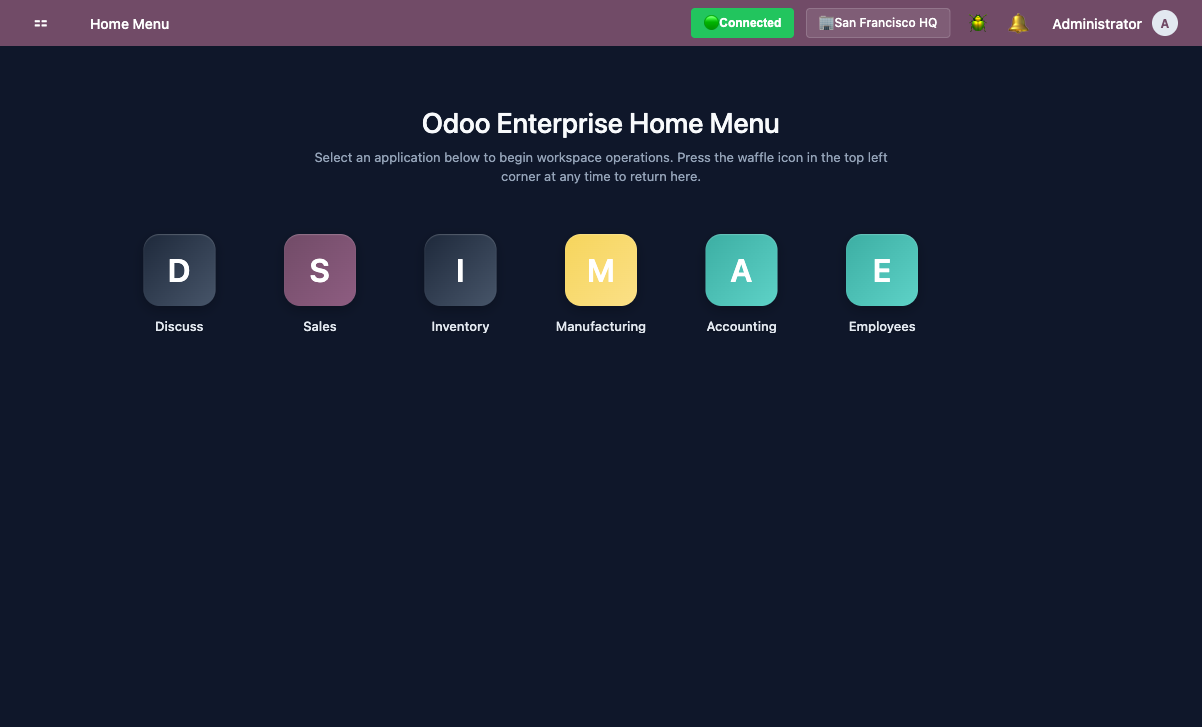
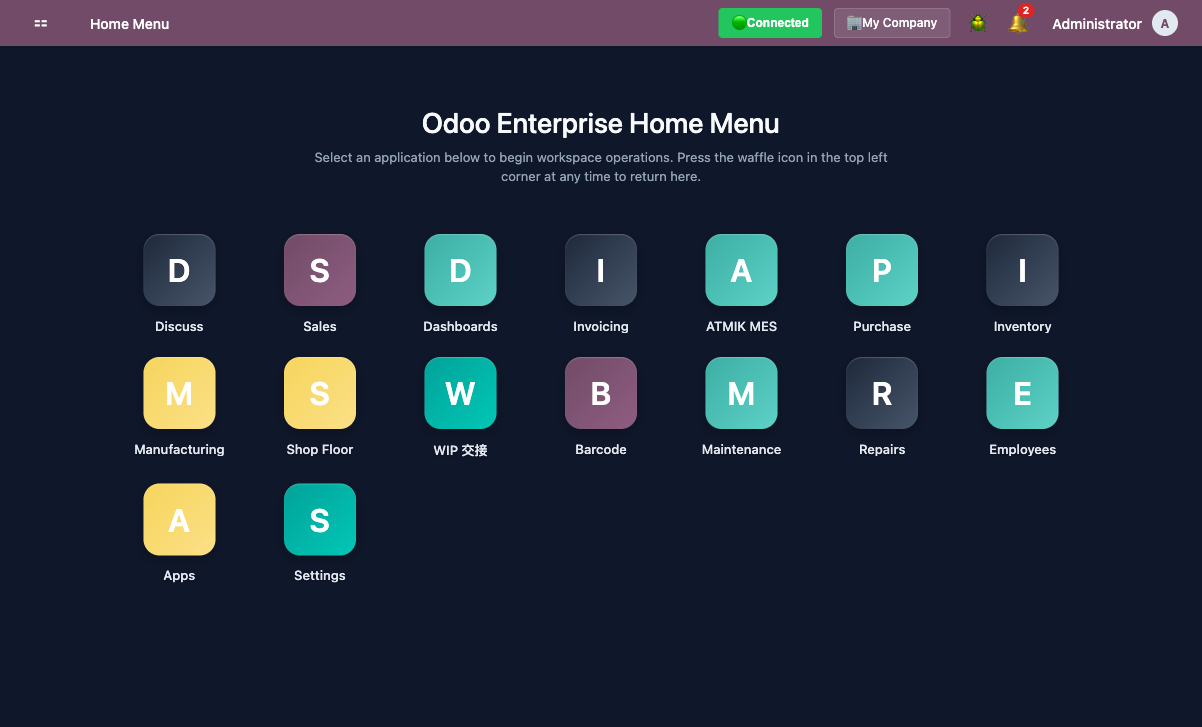
docs(screenshots): update screenshots with real live Odoo 19 purchase.order database views

diff --git a/README.md b/README.md
@@ -21,21 +21,21 @@ The Odoo Enterprise Connect portal supports dynamic server endpoint selection, d
 | <img src="./docs/images/login-portal.png" width="400px" alt="Odoo Web Client Vue - Login Portal"/> | <img src="./docs/images/login-portal-compact.png" width="400px" alt="Odoo Web Client Vue - Compact Login Portal"/> |
 
 ### ⚏ 2. High-Fidelity Odoo Enterprise App Switcher
-Features a highly responsive CSS grid overlay with name-derived, auto-generated gradients, quick search filter options, and seamless waffle-menu navigation.
+Features a highly responsive CSS grid overlay with name-derived, auto-generated gradients, quick search filter options, and seamless waffle-menu navigation connected to a live Odoo 19 instance.
 
 <p align="center">
   <img src="./docs/images/app-switcher.png" width="800px" alt="Odoo Web Client Vue - App Switcher"/>
 </p>
 
-### ☰ 3. Dynamic List View & ControlPanel / SearchPanel
-Showcases the unified List view rendering engine complete with multi-faceted filtering, group-by logic, direct sidebar category selection, and paginated record navigation.
+### ☰ 3. Dynamic Purchase Order List View & Navigation Sidebar
+Showcases the unified List view rendering engine loaded with real Odoo 19 **`purchase.order`** (Requests for Quotation) columns, featuring multi-faceted filtering, group-by logic, direct categories sidebar navigation, and paginated record counters.
 
 <p align="center">
   <img src="./docs/images/list-view.png" width="800px" alt="Odoo Web Client Vue - List View"/>
 </p>
 
-### ▭ 4. Responsive Form View & Sheet Layout Card
-Implements Odoo's classic `<sheet>` card view with advanced responsive CSS grid layouts, aligning `<group>` elements and auto-binding labels cleanly across all screen sizes.
+### ▭ 4. Live Purchase Order Creation Form View (FormRenderer)
+Implements Odoo's classic `<sheet>` card view with advanced responsive CSS grid layouts, aligning `<group>` elements and auto-binding labels cleanly across all screen sizes for the live `purchase.order` model.
 
 <p align="center">
   <img src="./docs/images/form-view.png" width="800px" alt="Odoo Web Client Vue - Form View"/>
